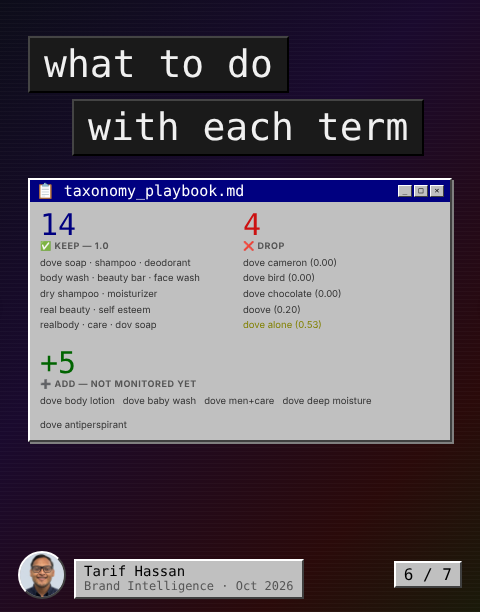
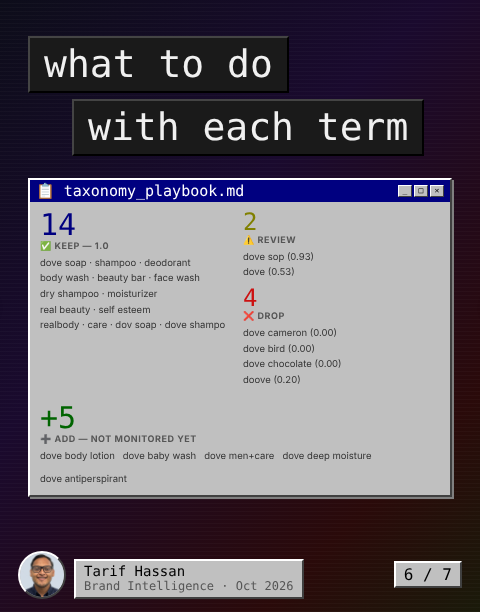
Add import os to both scripts; fix slide 6 Keep/Review/Drop; fix README wording

Changed region(s): [[0.0312, 0.5588, 0.9688, 0.8382], [0.4375, 0.3415, 0.7812, 0.683], [0.3438, 0.5278, 0.4688, 0.5588]]

diff --git a/test_search.py b/test_search.py
@@ -1,3 +1,4 @@
+import os
 import requests
 
 API_KEY = os.environ.get("YOUTUBE_API_KEY")

diff --git a/02_data/fetch_data.py b/02_data/fetch_data.py
@@ -1,3 +1,4 @@
+import os
 import requests
 import csv
 import time

diff --git a/README.md b/README.md
@@ -73,7 +73,7 @@ Full precision query in [`03_sql/03_precision_analysis.sql`](03_sql/03_precision
 
 **The bare term "dove" scores 0.53 precision.** Including it in brand monitoring is a coin flip — 47% of its results are noise, not the brand.
 
-14 product-specific terms (dove soap, dove shampoo, dove deodorant, and 11 others) returned no noise in the top 15 results — precision 1.0 across the board.
+14 terms across brand_core, campaign, and misspelling tiers returned no noise in the top 15 results — precision 1.0 across the board.
 
 ---
 
@@ -97,7 +97,7 @@ Full playbook in [`05_taxonomy_playbook/taxonomy_playbook.md`](05_taxonomy_playb
 
 <p align="center"><img src="06_executive_brief/slides/slide_07.png" width="480"></p>
 
-Product-specific terms consistently outperform in this sample. The fix is a one-time audit of the term list — one afternoon of work with a permanent impact on data quality.
+Specific terms consistently outperform in this sample. The fix is a one-time audit of the term list — one afternoon of work with a significant impact on data quality.
 
 **Limitation:** Videos were labeled by title only. Title-based labeling can misclassify results where the title is ambiguous but the content is clearly brand-relevant (or vice versa). A tool that analyzes video content directly would close this gap.
 
